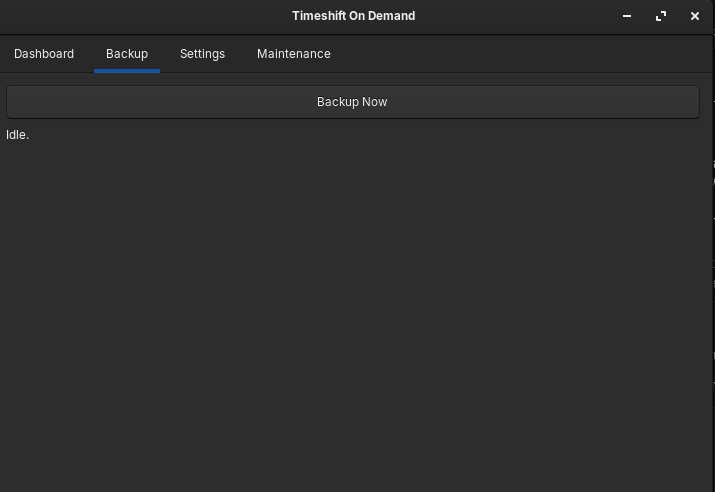
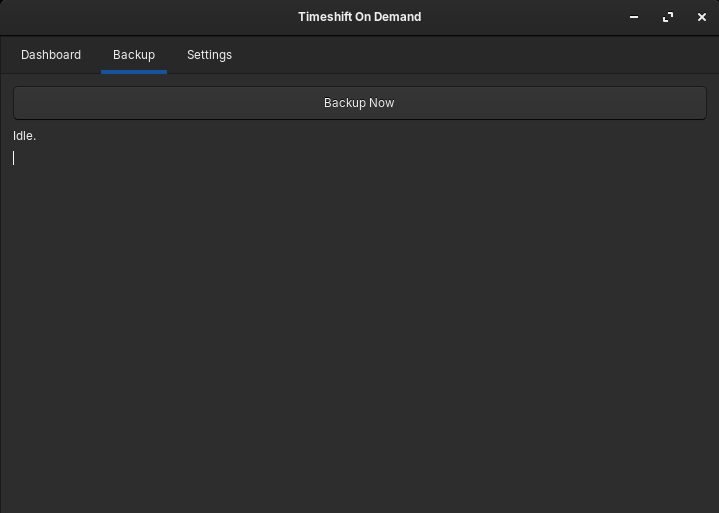
Docs: dev30 screenshots, troubleshooting wording
New window shots of dev30 on the Dell for the Dashboard, Settings and
Backup tabs (idle, running, done). The old ones still showed the removed
Maintenance tab, the removed drive picker and the multi-line progress
output replaced in dev18/19.

troubleshooting.md: in "The login/resume prompt didn't appear", reason 1
says "Timeshift's backup drive" and reason 2 quotes the line the prompt
actually logs, linked to "Timeshift has no backup device set". "How long
backups are kept" links the Dashboard's retention lines to usage.md
instead of naming a "Retention" label that no longer exists.

diff --git a/docs/troubleshooting.md b/docs/troubleshooting.md
@@ -93,7 +93,8 @@ also decide how long your backups are kept.
 
 This is Timeshift 24.01.1's behaviour, read from its source and checked
 against real snapshots on two machines; other versions haven't been
-checked. The Dashboard's **Retention** lines show your settings.
+checked. The Dashboard's
+[retention lines](usage.md#dashboard-tab) show your settings.
 
 - Companion backs up with `timeshift --create --tags D`, so every
   snapshot is tagged `daily`, whatever the schedule settings say. (The
@@ -141,11 +142,13 @@ cat /var/log/timeshift-on-demand-resume-hook.log
 
 Common reasons, in order of likelihood:
 
-1. **The configured drive wasn't mounted** at the time — same as the
+1. **Timeshift's backup drive wasn't mounted** at the time — same as the
    first section above. This is by far the most common cause; the
    prompt only appears once the drive-wait succeeds.
-2. **No drive is configured yet** — check `backup.log` for "No backup
-   drive configured."
+2. **Timeshift has no backup device set yet** — check `backup.log` for
+   "Timeshift has no backup device configured yet (open Timeshift and
+   finish its setup)", and see
+   [Timeshift has no backup device set](#timeshift-has-no-backup-device-set).
 3. **That prompt is turned off** in the Settings tab — check `backup.log`
    for "prompt_on_login is off" or "prompt_on_resume is off".
 4. **(Resume prompt only) Session detection genuinely can't reach your
